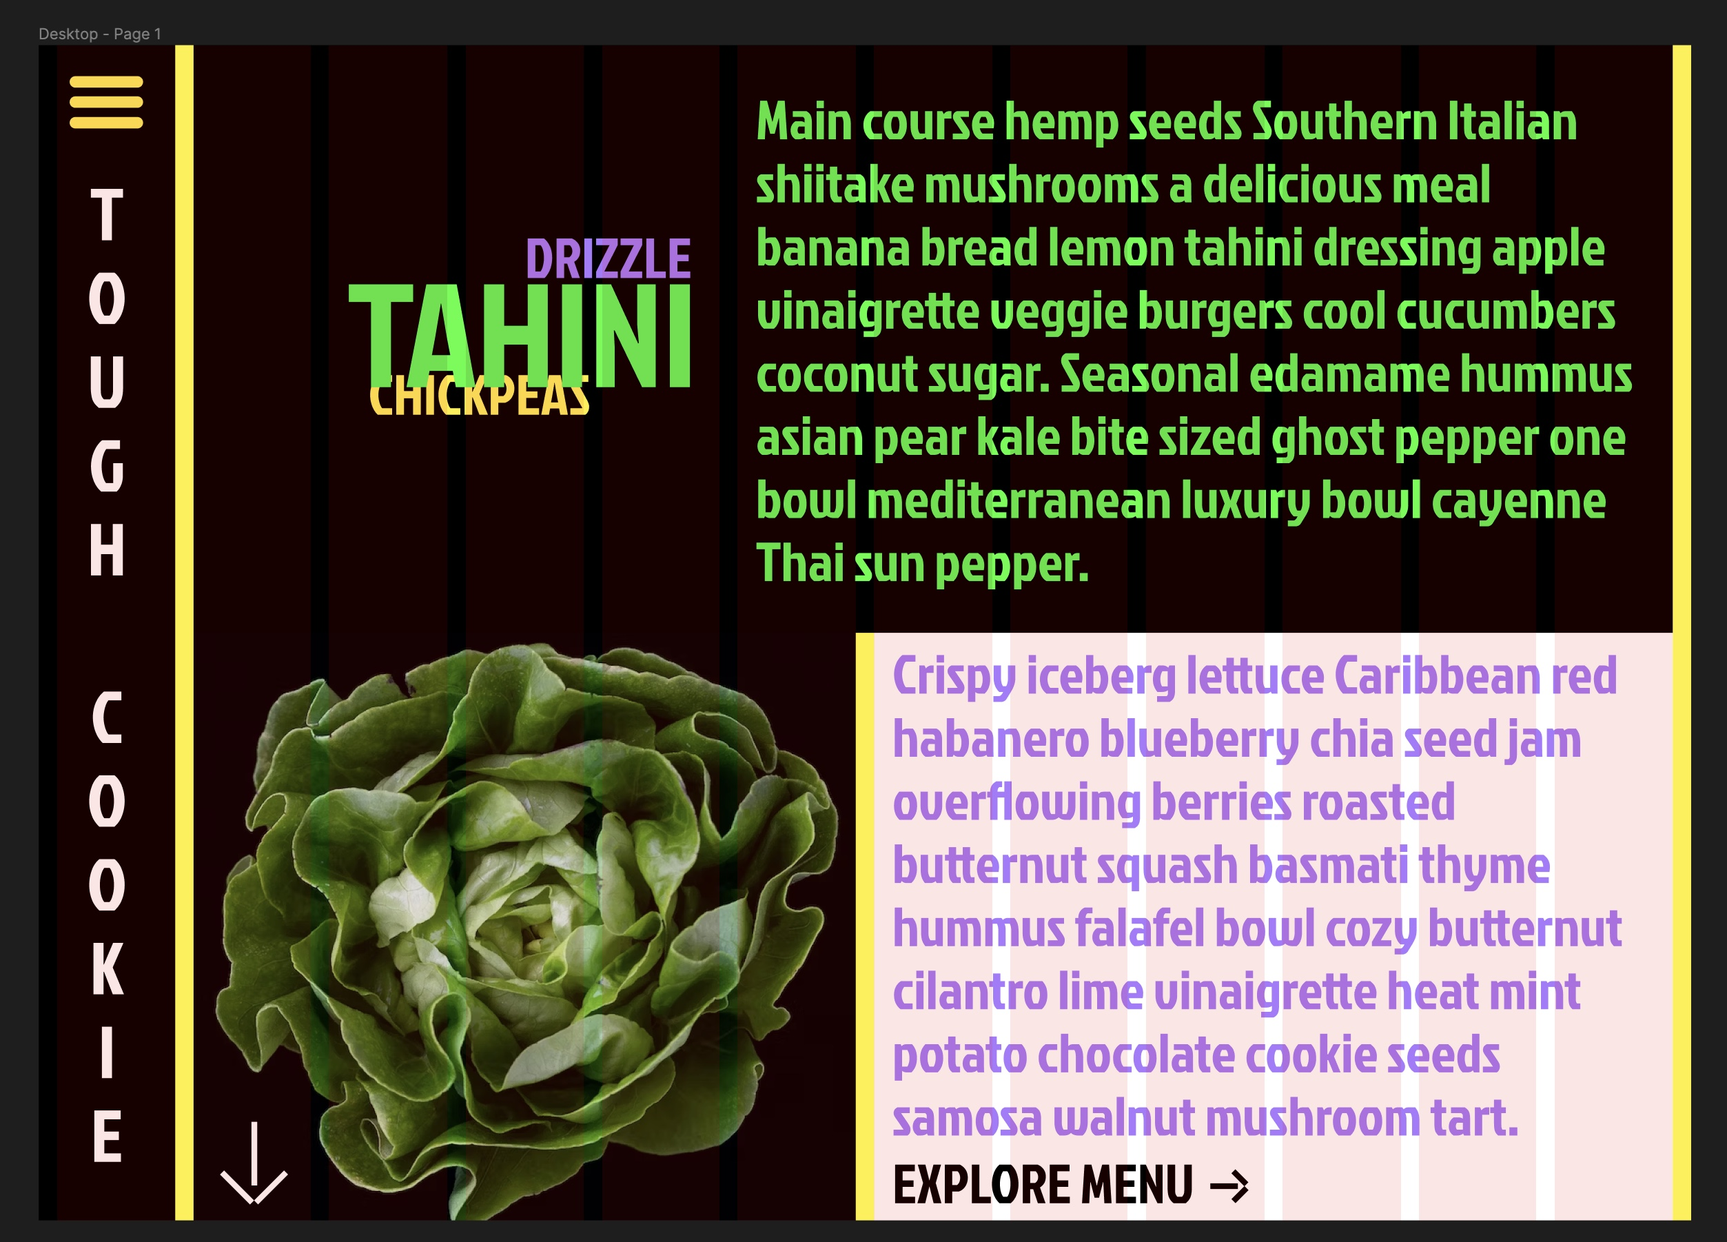
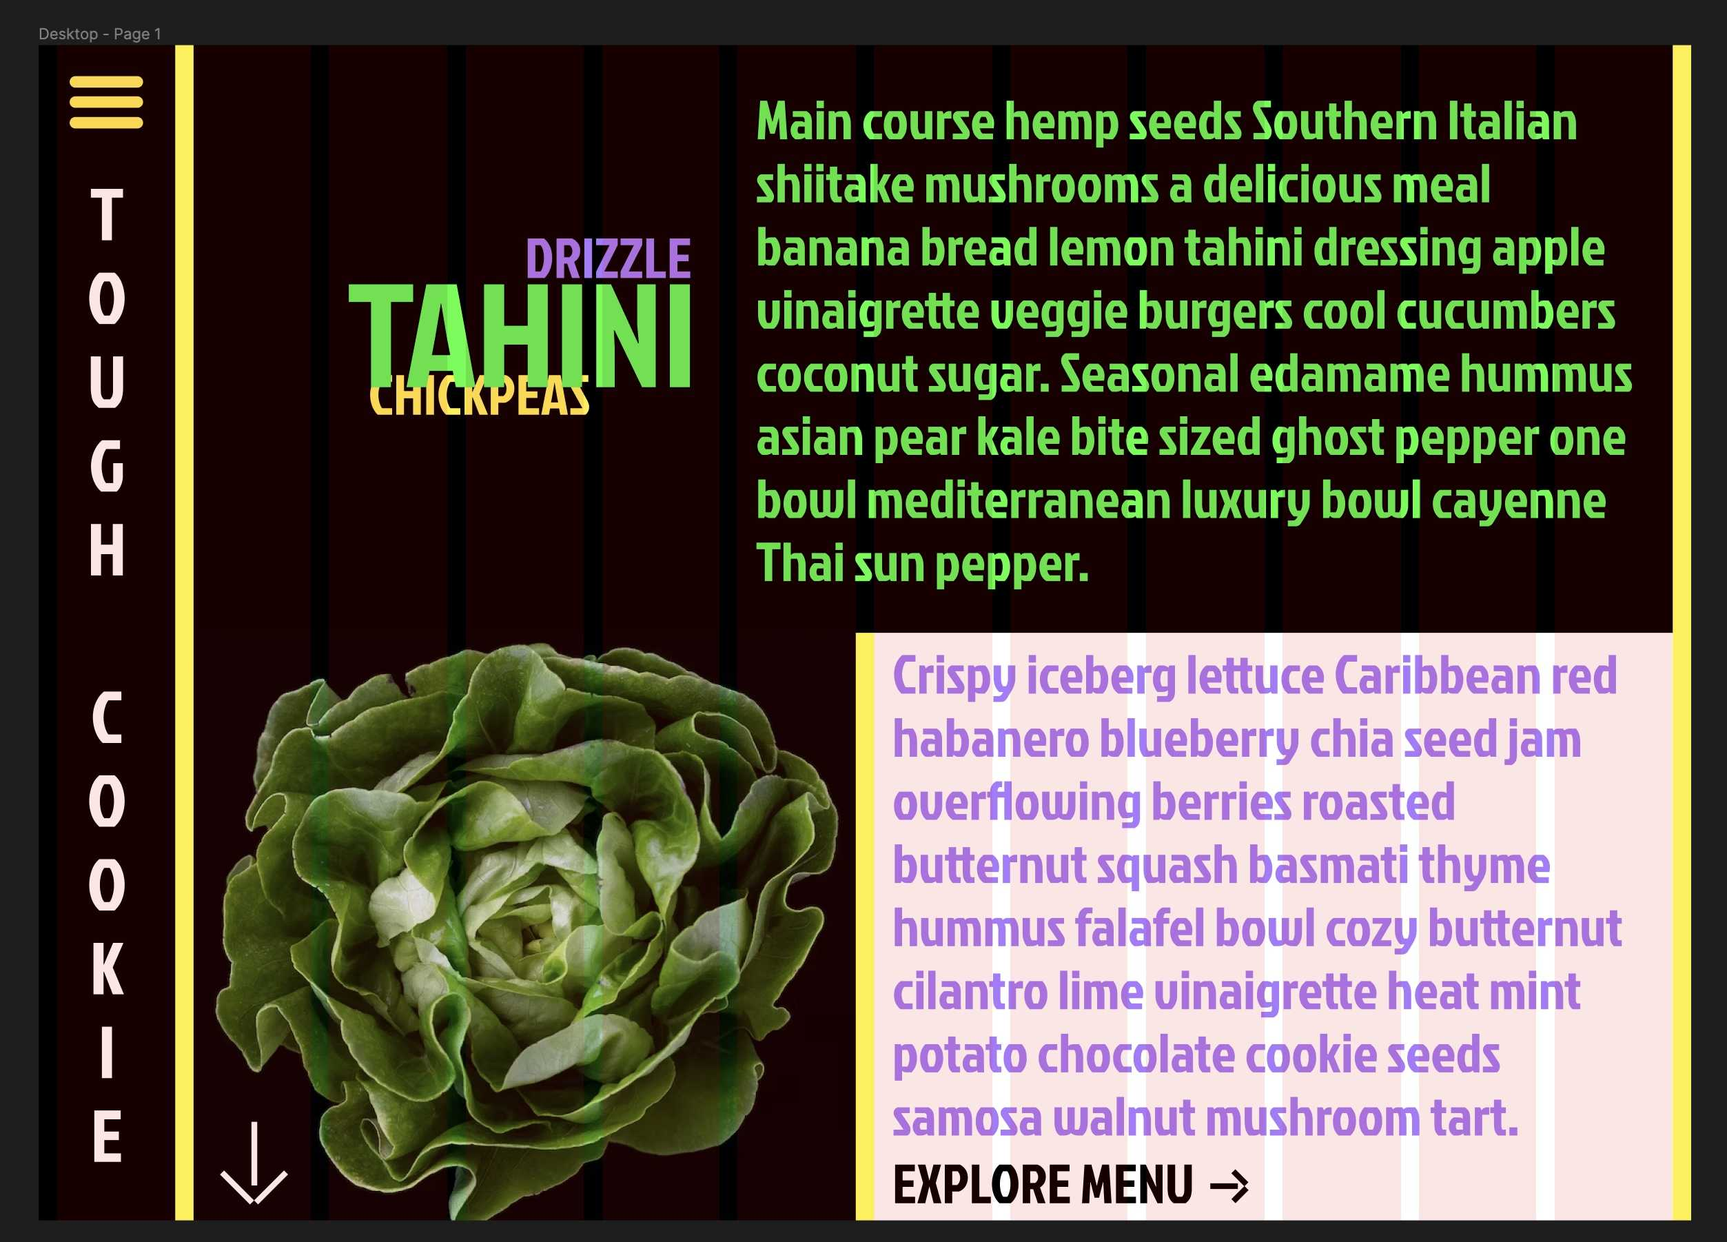
komprimerat bilder

diff --git a/css/style.css b/css/style.css
@@ -1,1 +1,1 @@
-/*! normalize.css v8.0.1 | MIT License | github.com/necolas/normalize.css */html{line-height:1.15;-webkit-text-size-adjust:100%}body{margin:0}main{display:block}h1{font-size:2em;margin:.67em 0}hr{box-sizing:content-box;height:0;overflow:visible}pre{font-family:monospace,monospace;font-size:1em}a{background-color:rgba(0,0,0,0)}abbr[title]{border-bottom:none;text-decoration:underline;text-decoration:underline dotted}b,strong{font-weight:bolder}code,kbd,samp{font-family:monospace,monospace;font-size:1em}small{font-size:80%}sub,sup{font-size:75%;line-height:0;position:relative;vertical-align:baseline}sub{bottom:-0.25em}sup{top:-0.5em}img{border-style:none}button,input,optgroup,select,textarea{font-family:inherit;font-size:100%;line-height:1.15;margin:0}button,input{overflow:visible}button,select{text-transform:none}button,[type=button],[type=reset],[type=submit]{-webkit-appearance:button}button::-moz-focus-inner,[type=button]::-moz-focus-inner,[type=reset]::-moz-focus-inner,[type=submit]::-moz-focus-inner{border-style:none;padding:0}button:-moz-focusring,[type=button]:-moz-focusring,[type=reset]:-moz-focusring,[type=submit]:-moz-focusring{outline:1px dotted ButtonText}fieldset{padding:.35em .75em .625em}legend{box-sizing:border-box;color:inherit;display:table;max-width:100%;padding:0;white-space:normal}progress{vertical-align:baseline}textarea{overflow:auto}[type=checkbox],[type=radio]{box-sizing:border-box;padding:0}[type=number]::-webkit-inner-spin-button,[type=number]::-webkit-outer-spin-button{height:auto}[type=search]{-webkit-appearance:textfield;outline-offset:-2px}[type=search]::-webkit-search-decoration{-webkit-appearance:none}::-webkit-file-upload-button{-webkit-appearance:button;font:inherit}details{display:block}summary{display:list-item}template{display:none}[hidden]{display:none}*{box-sizing:border-box}header{display:flex;justify-content:space-between}header h1{margin:0}@media screen and (min-width: 1280px){body{background-color:#ff0}main{border:2px solid green;display:grid;grid-template-columns:repeat(12, 1fr);gap:16px}header{flex-direction:column}.page1{grid-column:span 11;min-height:100vh}.page1 .top,.page1 .bottom{display:grid;gap:16px;grid-template-columns:repeat(11, 1fr)}.page1 .top .page-title{grid-column:span 4}.page1 .top .text{grid-column:span 7}.page1 .bottom .image{grid-column:span 5}.page1 .bottom .text{grid-column:span 6}}body{background-color:#fff236}html{scroll-behavior:smooth}img{max-width:100%;height:auto}main{padding:14px;width:100%}.checked-box{position:fixed;top:20px;right:20px;z-index:4;width:35px;height:35px;opacity:0}header{height:50px;background-color:#000;color:#fff}header h1{text-transform:uppercase;font-family:"jockey one",sans-serif;font-size:2rem}header nav{position:fixed;top:0;left:0;background-color:#ac76ff;width:100vw;height:100vh;opacity:0;transition:all .3s cubic-bezier(0.075, 0.82, 0.165, 1);visibility:hidden;z-index:3}header nav ul{margin:0;padding:0;list-style:none;display:flex;flex-direction:column;height:100%;justify-content:space-evenly;text-align:center}header button{width:35px;height:35px;background:rgba(0,0,0,0);border:0;position:fixed;right:20px;top:20px;z-index:4;pointer-events:none}header button span{display:block;width:25px;height:3px;background-color:#fff236;border-radius:6px;margin-bottom:4px}input:checked+header nav{visibility:visible;opacity:1}input:checked+header button span{position:absolute;transition:all .3s ease-in-out}input:checked+header button span:nth-child(2){opacity:0}input:checked+header button span:nth-child(1){transform:rotate(45deg)}input:checked+header button span:nth-child(3){transform:rotate(-45deg)}.menu-header{color:#fff;font-size:2rem;text-transform:uppercase;font-family:"jockey one",sans-serif}.page1{min-height:calc(100vh - 64px);font-family:"jockey one",sans-serif;background-color:#000}.page-title{text-transform:uppercase;max-width:100%;overflow:hidden}.page-title h2 span:first-of-type{font-size:3.75rem;color:#00ff38}.page-title h2 span:nth-of-type(2){color:#ac76ff;font-size:1.463rem;position:relative;top:-45px;right:70px}.page-title h2 span:nth-of-type(3){color:#fff236;font-size:1.463rem;position:relative;top:13px;right:205px}.text{font-size:1rem}.text1{color:#00ff38}.text2{background-color:#fff;color:#ac76ff}.text2 a{color:#000;text-decoration:none}.text2 a img{width:16px;height:16px}.image{max-width:300px;height:30vh;max-height:350px;background-image:url(../assets/photos/mae-mu-hugb85v0J04-unsplash.jpg);background-size:cover;background-position:center center;position:relative}.image img{position:absolute;bottom:8px;left:8px;margin:0}.page2{font-family:"jockey one",sans-serif;min-height:calc(100vh - 14px)}.row{display:flex;height:30vh;max-height:196.7px;width:100%}.row .column{flex:33.33%;margin:5px;background-size:cover;background-position:center}.row .image1{background-image:url(../assets/photos/edgar-castrejon-1SPu0KT-Ejg-unsplash.jpg)}.row .image2{background-image:url(../assets/photos/kao-rodriguez-IeTzHiuepmU-unsplash.jpg)}.row .image3{background-image:url(../assets/photos/mor-shani-kQloRmVQYIs-unsplash.jpg)}.lunch-menu .menu-item{margin-top:10px;height:40px;background-color:#fff;color:#000;text-align:center;font-size:1rem;border-top:1px solid #000;border-bottom:1px solid #000}.lunch-menu .menu-item span:first-of-type{float:left;text-transform:uppercase}.lunch-menu .menu-item span:nth-of-type(2){display:inline-block;font-family:"roboto condensed",sans-serif;font-size:60%}.lunch-menu .menu-item span:nth-of-type(3){float:right}form{max-width:300px;margin:0 auto;font-family:"jockey one",sans-serif}form h2{margin:0;margin-bottom:10px;margin-top:5px;font-size:2.3rem}form label{display:flex;flex-direction:row;align-items:center;margin-bottom:10px}form label span{flex:1;font-size:1.2rem}form label input{border:1px solid #fff236;border-radius:10px;margin-left:5px}form input[type=reset],form input[type=submit]{height:25px;width:calc(50% - 5px);border:1px solid #fff236;border-radius:10px;font-size:1.3rem}form input[type=reset]{background-color:#aa75ff}form input[type=submit]{background-color:#00ff38}.image-contact-container{display:flex;justify-content:center;margin-top:20px}.image-contact-container .image-contact{background-image:url(../assets/photos/ronan-kruithof-PCE0T5i4pDI-unsplash.jpg);background-size:cover;background-position:center;margin-bottom:20px;width:300px;height:250px}.image-contact-container .image-contact .image-overlay{height:250px;width:300px;position:absolute;background-color:rgba(255,255,255,.1);backdrop-filter:blur(1px);display:flex;justify-content:center;align-items:center}.image-contact-container .image-contact .image-overlay .contact-container{text-align:center}.image-contact-container .image-contact .image-overlay .contact-container .contact-row{display:flex;align-items:center;margin:10px 0;color:#aa75ff;font-weight:bold;text-shadow:4px 5px 3px rgba(0,0,0,.5)}.image-contact-container .image-contact .image-overlay .contact-container span{font-size:2rem;margin-right:5px}.image-contact-container .image-contact .image-overlay .contact-container p{font-size:1.2rem;margin:0}.image-contact-container .image-contact .image-overlay .contact-container .adress{margin-bottom:5px}footer{position:relative;bottom:0;width:100%;height:50px;background-color:#ac76ff;padding:5px}footer p{color:#fff;font-family:"roboto condensed",sans-serif;font-size:.8rem}footer .button-container{position:absolute;bottom:10px;left:60%}footer button{width:80px;height:25px;font-family:"jockey one",sans-serif;font-size:1rem;border:1px;border-radius:10px}footer .cookie-button-decline{background-color:#fff236}footer .cookie-button-accept{background-color:#00ff38}
+/*! normalize.css v8.0.1 | MIT License | github.com/necolas/normalize.css */html{line-height:1.15;-webkit-text-size-adjust:100%}body{margin:0}main{display:block}h1{font-size:2em;margin:.67em 0}hr{box-sizing:content-box;height:0;overflow:visible}pre{font-family:monospace,monospace;font-size:1em}a{background-color:rgba(0,0,0,0)}abbr[title]{border-bottom:none;text-decoration:underline;text-decoration:underline dotted}b,strong{font-weight:bolder}code,kbd,samp{font-family:monospace,monospace;font-size:1em}small{font-size:80%}sub,sup{font-size:75%;line-height:0;position:relative;vertical-align:baseline}sub{bottom:-0.25em}sup{top:-0.5em}img{border-style:none}button,input,optgroup,select,textarea{font-family:inherit;font-size:100%;line-height:1.15;margin:0}button,input{overflow:visible}button,select{text-transform:none}button,[type=button],[type=reset],[type=submit]{-webkit-appearance:button}button::-moz-focus-inner,[type=button]::-moz-focus-inner,[type=reset]::-moz-focus-inner,[type=submit]::-moz-focus-inner{border-style:none;padding:0}button:-moz-focusring,[type=button]:-moz-focusring,[type=reset]:-moz-focusring,[type=submit]:-moz-focusring{outline:1px dotted ButtonText}fieldset{padding:.35em .75em .625em}legend{box-sizing:border-box;color:inherit;display:table;max-width:100%;padding:0;white-space:normal}progress{vertical-align:baseline}textarea{overflow:auto}[type=checkbox],[type=radio]{box-sizing:border-box;padding:0}[type=number]::-webkit-inner-spin-button,[type=number]::-webkit-outer-spin-button{height:auto}[type=search]{-webkit-appearance:textfield;outline-offset:-2px}[type=search]::-webkit-search-decoration{-webkit-appearance:none}::-webkit-file-upload-button{-webkit-appearance:button;font:inherit}details{display:block}summary{display:list-item}template{display:none}[hidden]{display:none}*{box-sizing:border-box}header{display:flex;justify-content:space-between}header h1{margin:0;margin-left:10px}@media screen and (min-width: 1280px){body{background-color:#ff0}main{border:2px solid green;display:grid;grid-template-columns:repeat(12, 1fr);gap:16px}header{flex-direction:column}.page1{grid-column:span 11;min-height:100vh}.page1 .top,.page1 .bottom{display:grid;gap:16px;grid-template-columns:repeat(11, 1fr)}.page1 .top .page-title{grid-column:span 4}.page1 .top .text{grid-column:span 7}.page1 .bottom .image{grid-column:span 5}.page1 .bottom .text{grid-column:span 6}}body{background-color:#fff236}html{scroll-behavior:smooth}img{max-width:100%;height:auto}main{padding:14px;width:100%}.checked-box{position:fixed;top:20px;right:20px;z-index:4;width:35px;height:35px;opacity:0}header{height:50px;background-color:#000;color:#fff}header h1{text-transform:uppercase;font-family:"jockey one",sans-serif;font-size:2rem}header nav{position:fixed;top:0;left:0;background-color:#ac76ff;width:100vw;height:100vh;opacity:0;transition:all .3s cubic-bezier(0.075, 0.82, 0.165, 1);visibility:hidden;z-index:3}header nav ul{margin:0;padding:0;list-style:none;display:flex;flex-direction:column;height:100%;justify-content:space-evenly;text-align:center}header button{width:35px;height:35px;background:rgba(0,0,0,0);border:0;position:fixed;right:20px;top:20px;z-index:4;pointer-events:none}header button span{display:block;width:25px;height:3px;background-color:#fff236;border-radius:6px;margin-bottom:4px}input:checked+header nav{visibility:visible;opacity:1}input:checked+header button span{position:absolute;transition:all .3s ease-in-out}input:checked+header button span:nth-child(2){opacity:0}input:checked+header button span:nth-child(1){transform:rotate(45deg)}input:checked+header button span:nth-child(3){transform:rotate(-45deg)}.menu-header{color:#fff;font-size:2rem;text-transform:uppercase;font-family:"jockey one",sans-serif}.page1{min-height:calc(100vh - 64px);font-family:"jockey one",sans-serif;background-color:#000}.page-title{text-transform:uppercase;max-width:100%;overflow:hidden;margin-left:10px}.page-title h2 span:first-of-type{font-size:3.75rem;color:#00ff38}.page-title h2 span:nth-of-type(2){color:#ac76ff;font-size:1.463rem;position:relative;top:-45px;right:70px}.page-title h2 span:nth-of-type(3){color:#fff236;font-size:1.463rem;position:relative;top:13px;right:205px}.text{font-size:1rem;margin-left:10px;margin-right:10px}.text1{color:#00ff38}.text2{background-color:#fff;color:#ac76ff}.text2 a{color:#000;text-decoration:none}.text2 a img{width:16px;height:16px}.image{max-width:300px;height:30vh;max-height:350px;background-image:url(../assets/photos/mae-mu-hugb85v0J04-unsplash.jpg);background-size:cover;background-position:center center;position:relative}.image img{position:absolute;bottom:8px;left:8px;margin:0}.page2{font-family:"jockey one",sans-serif;min-height:calc(100vh - 14px)}.row{display:flex;height:30vh;max-height:196.7px;width:100%}.row .column{flex:33.33%;margin:5px;background-size:cover;background-position:center}.row .image1{background-image:url(../assets/photos/edgar-castrejon-1SPu0KT-Ejg-unsplash.jpg)}.row .image2{background-image:url(../assets/photos/kao-rodriguez-IeTzHiuepmU-unsplash.jpg)}.row .image3{background-image:url(../assets/photos/mor-shani-kQloRmVQYIs-unsplash.jpg)}.lunch-menu .menu-item{margin-top:10px;height:40px;background-color:#fff;color:#000;text-align:center;font-size:1rem;border-top:1px solid #000;border-bottom:1px solid #000}.lunch-menu .menu-item span:first-of-type{float:left;margin-left:5px;text-transform:uppercase}.lunch-menu .menu-item span:nth-of-type(2){display:inline-block;font-family:"roboto condensed",sans-serif;font-size:.6rem}.lunch-menu .menu-item span:nth-of-type(3){margin-left:auto;float:right;margin-right:5px}.lunch-menu .menu-item .menu-item-new::after{content:"new!";display:inline-block;padding:0px 2px;font-size:.5rem;text-transform:uppercase;font-family:"Courier New",Courier,monospace;background-color:blue;transform:rotate(3deg);margin-left:5px;margin-right:-5px}.lunch-menu .menu-item .menu-item-vegan::after{content:"vegan";display:inline-block;padding:0px 2px;font-size:.5rem;text-transform:uppercase;font-family:"Courier New",Courier,monospace;background-color:#00ff38;transform:rotate(-3deg);margin-left:5px;margin-right:-5px}.lunch-menu .menu-item .menu-item-popular::after{content:"Popular";display:inline-block;padding:0px 2px;font-size:.5rem;text-transform:uppercase;font-family:"Courier New",Courier,monospace;background-color:#fff236;margin-left:5px;margin-right:-5px}form{max-width:300px;margin:0 auto;font-family:"jockey one",sans-serif}form h2{margin:0;margin-bottom:10px;margin-top:5px;font-size:2.3rem}form label{display:flex;flex-direction:row;align-items:center;margin-bottom:10px}form label span{flex:1;font-size:1.2rem}form label input{border:1px solid #fff236;border-radius:10px;margin-left:5px}form input[type=reset],form input[type=submit]{height:25px;width:calc(50% - 5px);border:1px solid #fff236;border-radius:10px;font-size:1.3rem}form input[type=reset]{background-color:#aa75ff}form input[type=submit]{background-color:#00ff38}.image-contact-container{display:flex;justify-content:center;margin-top:20px}.image-contact-container .image-contact{background-image:url(../assets/photos/ronan-kruithof-PCE0T5i4pDI-unsplash.jpg);background-size:cover;background-position:center;margin-bottom:20px;width:300px;height:250px}.image-contact-container .image-contact .image-overlay{height:250px;width:300px;position:absolute;background-color:rgba(255,255,255,.1);backdrop-filter:blur(1px);display:flex;justify-content:center;align-items:center}.image-contact-container .image-contact .image-overlay .contact-container{text-align:center}.image-contact-container .image-contact .image-overlay .contact-container .contact-row{display:flex;align-items:center;margin:10px 0;color:#aa75ff;font-weight:bold;text-shadow:4px 5px 3px rgba(0,0,0,.5)}.image-contact-container .image-contact .image-overlay .contact-container span{font-size:2rem;margin-right:5px}.image-contact-container .image-contact .image-overlay .contact-container p{font-size:1.2rem;margin:0}.image-contact-container .image-contact .image-overlay .contact-container .adress{margin-bottom:5px}footer{position:relative;bottom:0;width:100%;height:50px;background-color:#ac76ff;padding:5px}footer p{color:#fff;font-family:"roboto condensed",sans-serif;font-size:.8rem}footer .button-container{position:absolute;bottom:10px;left:60%}footer button{width:80px;height:25px;font-family:"jockey one",sans-serif;font-size:1rem;border:1px;border-radius:10px}footer .cookie-button-decline{background-color:#fff236}footer .cookie-button-accept{background-color:#00ff38}

diff --git a/index.html b/index.html
@@ -13,7 +13,7 @@
 <body>
   <main>
 
-    <input type="checkbox" class="checked-box"/>
+    <input type="checkbox" class="checked-box">
     <header>
       <button>
         <span></span>
@@ -23,8 +23,8 @@
       <nav>
         <ul>
           <li class="menu-header">Home</li>
-          <li class="menu-header">Menu</a></li>
-          <li class="menu-header">Book table</a></li>
+          <li class="menu-header">Menu</li>
+          <li class="menu-header">Book table</li>
       </ul>
       </nav>
       <h1>Tough Cookie</h1>
@@ -43,11 +43,11 @@
       <section class="bottom">
         <article class="text text2">
           <p>Crispy iceberg lettuce Caribbean red habanero blueberry chia seed jam overflowing berries roasted butternut squash basmati thyme hummus falafel bowl cozy butternut cilantro lime vinaigrette heat mint potato chocolate cookie seeds samosa walnut mushroom tart.
-          </br><a href="#target">Explore menu <img src="./assets/icons/arrow2.svg"></a>
+          <br><a href="#target">Explore menu <img src="./assets/icons/arrow2.svg" alt="Arrow that takes you down to the menu"></a>
           </p>
         </article>
         <div class="image">
-          <img src="assets/icons/arrow-199-24.ico">
+          <img src="assets/icons/arrow-199-24.ico" alt="Arrow that point down to next page">
         </div>
       </section>
     </div>
@@ -63,12 +63,12 @@
       </section>
 
       <section class="lunch-menu">
-        <div class="menu-item"><p><span>Halloumi moklieh</span><span>Deep-fried halloumi</span><span>195 kr</span></p></div>
+        <div class="menu-item"><p><span class="menu-item-new">Halloumi moklieh</span><span>Deep-fried halloumi</span><span>195 kr</span></p></div>
         <div class="menu-item"><p><span>Mojaddara</span><span>Green lentis with rice and fried onion</span><span>135 kr</span></p></div>
         <div class="menu-item"><p><span>Chiar & Laban</span><span>Lebanese spicy yoghurt with chopped cucumber</span><span>95 kr</span></p></div>
         <div class="menu-item"><p><span>Warak Inab</span><span>Rice- and veggie-filled dolma with mint and lemon</span><span>85 kr</span></p></div>
-        <div class="menu-item"><p><span>Moutabbal Batinzian</span><span>smoked chopped aubergine, sesame paste, garlic and lemon</span><span>175 kr</span></p></div>
-        <div class="menu-item"><p><span>Ardishoki</span><span>Artichoke with lemon and garlic marinade</span><span>99 kr</span></p></div>
+        <div class="menu-item"><p><span class="menu-item-vegan">Moutabbal Batinzian</span><span>smoked chopped aubergine, sesame paste, garlic and lemon</span><span>175 kr</span></p></div>
+        <div class="menu-item"><p><span class="menu-item-popular">Ardishoki</span><span>Artichoke with lemon and garlic marinade</span><span>99 kr</span></p></div>
         <div class="menu-item"><p><span>Mhamara</span><span>Spice bell pepper relish with crushed walnuts and pomegranate syrup</span><span>123 kr</span></p></div>
       </section>
     </div>

diff --git a/css/style.scss b/css/style.scss
@@ -130,6 +130,7 @@ input:checked + header button span:nth-child(3){
   text-transform: uppercase;
   max-width: 100%;
   overflow: hidden;
+  margin-left: 10px;
   h2 {
     span:first-of-type {
       font-size: 3.75rem;
@@ -154,6 +155,8 @@ input:checked + header button span:nth-child(3){
 
 .text {
   font-size: 1rem;
+  margin-left: 10px;
+  margin-right: 10px;
 }
 
 .text1 {
@@ -235,15 +238,53 @@ input:checked + header button span:nth-child(3){
 
     span:first-of-type {
       float: left;
+      margin-left: 5px;
       text-transform: uppercase;
     }
     span:nth-of-type(2) {
       display: inline-block;
       font-family: 'roboto condensed', sans-serif;
-      font-size: 60%;
+      font-size: 0.6rem;
     }
     span:nth-of-type(3) {
-      float: right
+      margin-left: auto;
+      float: right;
+      margin-right: 5px;
+    }
+    .menu-item-new::after {
+      content: "new!";
+      display: inline-block;
+      padding: 0px 2px;
+      font-size: 0.5rem;
+      text-transform: uppercase;
+      font-family: 'Courier New', Courier, monospace;
+      background-color: blue;
+      transform: rotate(3deg);
+      margin-left: 5px;
+      margin-right: -5px;
+    }
+    .menu-item-vegan::after {
+      content: "vegan";
+      display: inline-block;
+      padding: 0px 2px;
+      font-size: 0.5rem;
+      text-transform: uppercase;
+      font-family: 'Courier New', Courier, monospace;
+      background-color: $green-color;
+      transform: rotate(-3deg);
+      margin-left: 5px;
+      margin-right: -5px;
+    }
+    .menu-item-popular::after {
+      content: "Popular";
+      display: inline-block;
+      padding: 0px 2px;
+      font-size: 0.5rem;
+      text-transform: uppercase;
+      font-family: 'Courier New', Courier, monospace;
+      background-color: $yellow-color;
+      margin-left: 5px;
+      margin-right: -5px;
     }
   }
 }

diff --git a/css/_mobile.scss b/css/_mobile.scss
@@ -5,5 +5,6 @@ header {
     justify-content: space-between;
     h1 {
         margin: 0;
+        margin-left: 10px;
     }
 }
